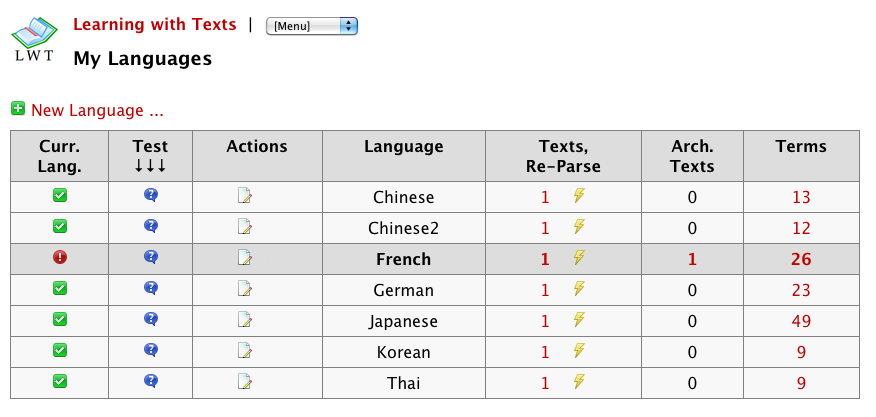
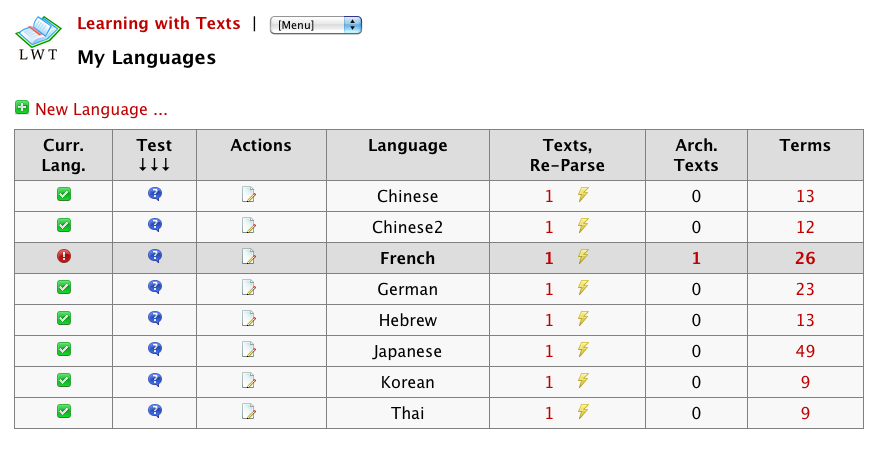
Version 1.3.0 (02-Sep-11 22:15)

diff --git a/info.htm b/info.htm
@@ -197,7 +197,7 @@ $(document).ready( function() {
 
       <dd>
         <ul>
-          <li>The current version is <b>1.3.0 (September 07 2011)</b>.
+          <li>The current version is <b>1.3.0 (September 04 2011)</b>.
           </li>
 
           <li>
@@ -463,7 +463,7 @@ Developed by J. Pierre in 2011.
             Copyright © France Bienvenue, <a href="http://francebienvenue1.wordpress.com/2011/06/18/generosite/" target="_blank">Source</a>. License: "Bien sûr, les enseignants de FLE peuvent utiliser nos enregistrements et nos transcriptions pour leurs cours. Merci de mentionner notre site !".
             </li>
             
-            <li>Korean and Japanese - own creation from different sources, audio from Google TTS, in the Public Domain.
+            <li>Korean, Japanese, Thai, Hebrew - own creations from different sources.
             </li>
             
             </ul>
@@ -1106,7 +1106,9 @@ Another example: The URI to query "travailler" in sansagent is "http://dictionar
               <li>"Make each character a word" is a special option for Chinese, etc. This makes EVERY character a single word (normally words are split by any non-word character or a space). See also <a href="#langsetup">this table</a>.<br /> <br /> 
               </li>
 
-              <li>"Remove spaces" is another option for Chinese, etc. It removes all spaces from the text (and the example sentences). See also <a href="#langsetup">this table</a>.
+              <li>"Remove spaces" is another option for Chinese, etc. It removes all spaces from the text (and the example sentences). See also <a href="#langsetup">this table</a>.<br /> <br />
+              </li>
+              <li>"Right-To-Left Script" must be set to "Yes" if the language/script is written from right to left, like Arabic, Hebrew, Farsi, Urdu, etc. 
               </li>
             </ul>
 
@@ -1156,7 +1158,7 @@ Another example: The URI to query "travailler" in sansagent is "http://dictionar
             <b><a name="howtolang" id="howtotext">New/Edit Text (with Check)</a></b>
             <br />
             <br />
-            This is the screen to input, check or edit a text. Try to store not too long texts. If texts are very long (> 1000 words), certain operations (e.g. loading a text for reading, calculation of known/unknown words) may be slow. An audio URI can also be defined. The best place to store your audios is the "media" sub directory below the installation directory "lwt" (you have to create it yourself, and you have to copy the audio files into this directory; click Refresh if you don't see just copied media). But a cloud webspace service like DropBox is also possible. In the moment there is no possibility to import/upload an audio file within the LWT application. By the way, you can use MP3, WAV, or OGG media files. If you click "Check", the text will be parsed and split into sentences and words according to your language settings. Nothing will be stored if you check a text. You can see whether your text needs some editing, or whether your language settings (especially the ones that influence parsing/splitting) need an adjustment. Words (not expressions) that are already in your word list are displayed in red, and the translation is displayed. The Non-Word List shows all stuff between words. The "Check a Text" function can also be started directly from the main menu. If you click on "Change" or "Save", the text will be only saved. If you click on "Change and Open" or "Save and Open", the text will be saved and opened right away.
+            This is the screen to input, check or edit a text. Try to store not too long texts. If texts are very long (> 1000 words), certain operations (e.g. loading a text for reading, calculation of known/unknown words) may be slow. An audio URI can also be defined. The best place to store your audios is the "media" sub directory below the installation directory "lwt" (you have to create it yourself, and you have to copy the audio files into this directory; click Refresh if you don't see just copied media). But a cloud webspace service like DropBox is also possible. In the moment there is no possibility to import/upload an audio file within the LWT application. By the way, you can use MP3, WAV, or OGG media files, but be aware that not all browsers and/or operating systems support all media types! If you click "Check", the text will be parsed and split into sentences and words according to your language settings. Nothing will be stored if you check a text. You can see whether your text needs some editing, or whether your language settings (especially the ones that influence parsing/splitting) need an adjustment. Words (not expressions) that are already in your word list are displayed in red, and the translation is displayed. The Non-Word List shows all stuff between words. The "Check a Text" function can also be started directly from the main menu. If you click on "Change" or "Save", the text will be only saved. If you click on "Change and Open" or "Save and Open", the text will be saved and opened right away.
             <br />
             <br />
             <img class="grayborder" src="img/05.png" alt="Image" />
@@ -1172,6 +1174,12 @@ Another example: The URI to query "travailler" in sansagent is "http://dictionar
             <br />
             <br />
             <img class="grayborder" src="img/06.png" alt="Image" />
+            <br />
+            <br />
+            Reading a Right-To-Left Script (Hebrew):
+            <br />
+            <br />
+            <img class="grayborder" src="img/26.png" alt="Image" />
             <br />
             <br />
             With the checkbox [Show All] you can switch the display of text:
@@ -1636,12 +1644,8 @@ with audioplayer", if needed.</li>
           </li>
 
           <li>"Remove spaces" = "Yes" should only be set in Chinese, Japanese, and similar languages to remove whitespace that has been automatically or manually inserted to specify words.
-            <br />
-            <br />
           </li>
 
-          <li>Languages that are written from right to left (like Arabic, Hebrew, Farsi, Urdu - to name a few) are not supported in the moment. 
-          </li>
         </ul>
       </dd>
 
@@ -2038,11 +2042,11 @@ with audioplayer", if needed.</li>
       <dd>
         <ul>
 
-        	<li>1.3.0 (September 07 2011):
+        	<li>1.3.0 (September 04 2011):
         	Tagging of texts and archived texts introduced. With this feature, it will be easier to categorize and organize your texts. After having tagged your texts, you are able to filter texts according to one or two tags.<br />
-        	Rudimentary right-to-left (rtl) script support: new field in languages to set a language to right-to-left script, Hebrew example added, changed texts, terms, sentences with respect to rtl support. This needs further elaboration so don't expect too much! 
+        	Rudimentary right-to-left (rtl) script support: new db field in languages to set a language to right-to-left script, all relevant parts with respect to rtl support changed. A simple Hebrew example added to demonstrate rtl support.  
         	<br />
-        	Documentation and screenshots updated.
+        	Documentation, screenshots, Anki example file updated.
         	<br /><br />
         	</li>        	
         	

diff --git a/utilities.inc.php b/utilities.inc.php
@@ -19,7 +19,7 @@ Plus (at end): Database Connect, .. Select, .. Update
 
 function get_version() {
 	global $debug;
-	return '1.3.0 (September 07 2011)'  . 
+	return '1.3.0 (September 04 2011)'  . 
 	($debug ? ' <span class="red">DEBUG</span>' : '');
 }
 
